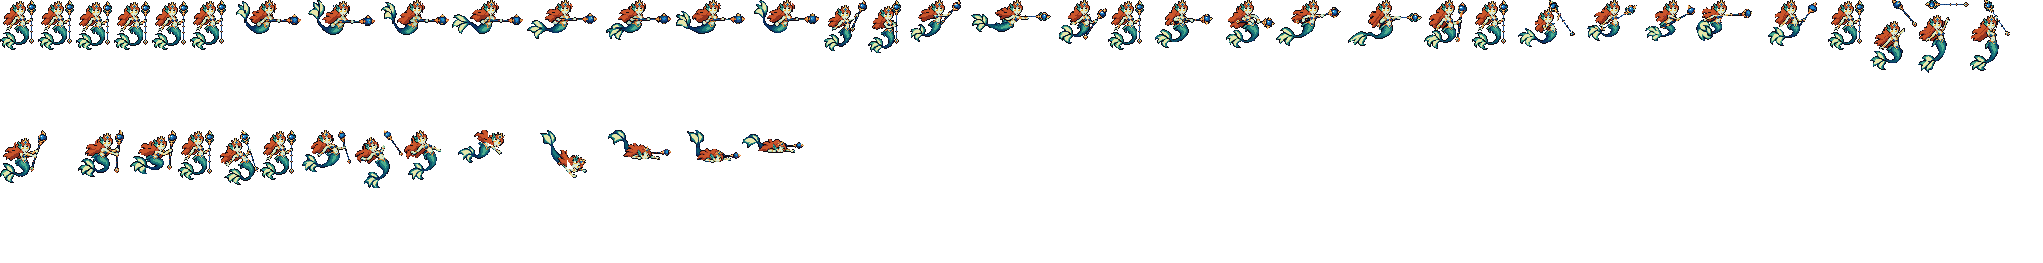
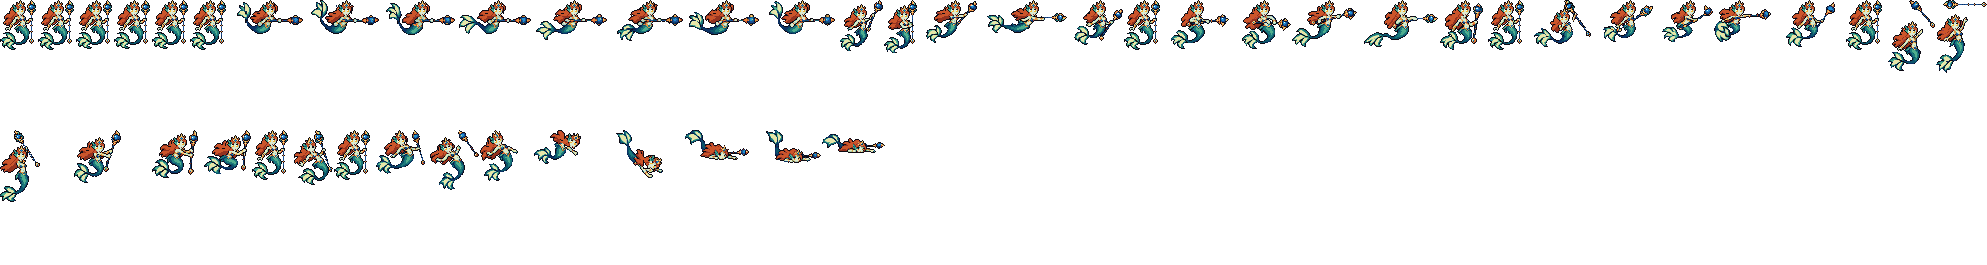
Nami: outline closed on every frame, the run's neck kept
The user: "黑边处理了吗" and "这个描边补法要记载到skill里面 后面英雄都要用的";
"缩小后脖子和身体有点怪 ... 一上一下的时候感觉身体要分离一样".

- skill strips.complete_outline: every clear pixel next to a light edge
  pixel (luminance >= 70) takes the outline colour, nothing drawn is
  repainted; one-pixel lines (her staff's shaft) stay open at their
  sides; under the soles row the edge pixel itself darkens. art-spec
  "Close the outline" (every hero) and "Keep the neck the same", QA
  checklist, SKILL.md step 4.
- import_native.py COMPLETE runs it on the finished frames (after SINK,
  BOB and NECK): Nami's silhouette edge 68-91% dark -> 94-100%, still 21
  colours; metrics outline WARN -> PASS.
- NECK: Codex drew her swimming body a row lower under the pasted head
  in run 1-4 than in 5-8 and the design; everything above the neck row
  moves down a row there, so the shoulders sit on the same row under
  the chin in all eight frames.
- previews and the showcase GIF re-rendered.

Changed region(s): [[0.0, 0.0, 1.0, 0.2738], [0.0, 0.4867, 0.468, 0.7605]]

diff --git a/tools/art/import_native.py b/tools/art/import_native.py
@@ -53,6 +53,14 @@ STEADY = ("idle", "run")
 # line) she sat high; the user: "整体下移 3 格、去掉浮空". Frames already on the ground stay (R's landing, her death).
 SINK = {"nami": 3}
 SOLES = 11
+# (hero, tag): (y, slots) like BOB, for a neck drawn too long under the pasted head: in those slots everything at or
+# above pivot row y moves down a row. Codex drew Nami's swimming body a row lower under the head in run 1-4 than
+# in 5-8 and the design, so her neck stretched and shrank as she swam (the user: "一上一下的时候感觉身体要分离一样").
+NECK = {("nami", "run"): (-21, [0, 1, 2, 3])}
+# heroes whose outline strips.complete_outline closes on the finished frames (the skill's art-spec "Close the
+# outline": every hero from Nami on; the user: "后面英雄都要用的"). Nothing goes under the soles row; a frame that
+# already reaches lower (lying down) keeps its own bottom.
+COMPLETE = {"nami"}
 ORDER = {("lux", "idle"): [0, 0, 0, 0, 0, 0],   # the step-2 idle is the design in all six (was 0 1 2 3 5 4)
          # League leans his upper body a square forward in idle 4-5 and back in 6, and every frame's head
          # is voted anew, so the face swung and changed shape as he breathed (the user). Frame 1 in every
@@ -363,9 +371,9 @@ def touch_up(hero, sheet):
 
 
 def breathe(hero, sheet):
-    """BOB: move the upper body of the listed slots down a row (after the retouch, which is drawn on the frame
-    before it moves)."""
-    for (h, tag), (y0, slots) in BOB.items():
+    """BOB and NECK: move the upper body of the listed slots down a row (after the retouch, which is drawn on the
+    frame before it moves)."""
+    for (h, tag), (y0, slots) in list(BOB.items()) + list(NECK.items()):
         if h != hero or tag not in sheet:
             continue
         for k in slots:
@@ -375,6 +383,29 @@ def breathe(hero, sheet):
             b[1:cut + 1] = a[0:cut]
             b[0] = 0
             sheet[tag][k] = (b, ms)
+
+
+def close_outline(hero, sheet):
+    """COMPLETE: strips.complete_outline on every frame, in idle frame 1's outline colour; (added, darkened)."""
+    if hero not in COMPLETE:
+        return 0, 0
+    first = sheet["idle"][0][0]
+    op = first[..., 3] > 0
+    p = np.pad(op, 1)
+    edge = op & ~(p[:-2, 1:-1] & p[2:, 1:-1] & p[1:-1, :-2] & p[1:-1, 2:])
+    dark = [tuple(int(v) for v in c) for c in first[edge & (G.lum(first[..., :3]) < 70)][:, :3]]   # the commonest
+    colour = max(set(dark), key=dark.count)
+    added = darkened = 0
+    for tag, frames in sheet.items():
+        for k, (a, ms) in enumerate(frames):
+            b = np.pad(a, ((1, 1), (1, 1), (0, 0)))              # room for an outline round the widest pixel
+            c = b.shape[0] // 2
+            low = int(np.nonzero(b[..., 3].any(1))[0].max())
+            b, n, d = G.complete_outline(b, color=colour, feet=max(c + SOLES, low))
+            frames[k] = (G.centre_frame(b, -(b.shape[1] // 2), -c), ms)
+            added += n
+            darkened += d
+    return added, darkened
 
 
 def flatness(frames):
@@ -420,6 +451,9 @@ def main():
         if touched:
             print(f"{hero}_retouch.json: {touched} pixels retouched")
         breathe(hero, sheet)
+        added, darkened = close_outline(hero, sheet)
+        if added or darkened:
+            print(f"{hero}: outline closed with {added} pixels added, {darkened} darkened on the feet line")
         w, h = G.write_sheet(os.path.join(MOD, "champions", f"league_{hero}"), sheet)
         frames = [a for fr in sheet.values() for a, _ in fr]
         colours = len(np.unique(np.concatenate([a[a[..., 3] > 0][:, :3] for a in frames]), axis=0))

diff --git a/.claude/skills/tfm2-hero-mod/scripts/strips.py b/.claude/skills/tfm2-hero-mod/scripts/strips.py
@@ -15,6 +15,10 @@ TFM2-League-Heroes repo); see references/art-spec.md "Generated art". Needs nump
   Palette       one shared palette per sprite (median cut), nearest-colour mapping
   median_cut    median-cut colours of a pixel list (build a palette per colour class)
   outline       1 px near-black silhouette outline (glowing pixels, and a `keep` mask, are left alone)
+  complete_outline
+                close the outline of game-size art where the drawing left it open: added outside,
+                nothing repainted, one-pixel lines open at their sides, nothing under the feet
+                (every hero's finished frames; art-spec "Close the outline")
   centre_frame  trim to an odd size centred on the pivot (the exported-sheet convention)
   write_sheet   pack frames into name#sheet.png + name#anim.fanim
 """
@@ -329,6 +333,44 @@ def outline(f, color=OUTLINE, glow=205, keep=None):
         edge &= ~keep
     out[edge, :3] = color
     return out
+
+
+def complete_outline(f, color=None, dark=70, feet=None, keep=None):
+    """Close the outline of game-size art where the drawing left it open: every clear pixel 4-next to an
+    opaque pixel that is not dark (luminance >= `dark`) becomes `color` (default: the commonest dark colour on
+    the silhouette's edge). Nothing drawn is repainted, except under the feet: a clear pixel below row `feet`
+    stays clear and the light pixel above it takes the colour instead. A one-pixel line seen across (a staff,
+    a bow, a strand of hair: base draws them without an outline) is left open at its sides; its ends get one.
+    `keep` pixels never change. Returns (picture, pixels added, pixels darkened)."""
+    out = f.copy()
+    op = f[..., 3] > 0
+    light = op & (lum(f[..., :3]) >= dark)
+    H, W = op.shape
+    keep = np.zeros_like(op) if keep is None else keep
+    if color is None:
+        p = np.pad(op, 1)
+        edge = op & ~(p[:-2, 1:-1] & p[2:, 1:-1] & p[1:-1, :-2] & p[1:-1, 2:])
+        dk = [tuple(int(v) for v in c) for c in f[edge & ~light][:, :3]]
+        color = max(set(dk), key=dk.count) if dk else OUTLINE
+    rows = np.arange(H)[:, None] + np.zeros((1, W), int)
+    pl, po = np.pad(light & ~keep, 2), np.pad(op, 2)
+    add = np.zeros_like(op)
+    dark_it = np.zeros_like(op)
+    for dy, dx in ((1, 0), (-1, 0), (0, 1), (0, -1)):
+        q = pl[2 + dy:2 + dy + H, 2 + dx:2 + dx + W]                      # the light pixel next to (y, x)
+        beyond = po[2 + 2 * dy:2 + 2 * dy + H, 2 + 2 * dx:2 + 2 * dx + W]   # the pixel past it
+        cand = ~op & ~keep & q & beyond
+        if feet is not None:
+            low = cand & (rows > feet)
+            cand &= rows <= feet
+            ys, xs = np.nonzero(low)
+            dark_it[ys + dy, xs + dx] = True
+        add |= cand
+    out[add, :3] = color
+    out[add, 3] = 255
+    dark_it &= ~add & light & ~keep
+    out[dark_it, :3] = color
+    return out, int(add.sum()), int(dark_it.sum())
 
 
 def drop_lonely(f):

diff --git a/README.md b/README.md
@@ -61,7 +61,7 @@
 ![阿卡丽演示：跑进场，Q 寒影的苦无扇打中德莱厄斯，他脚下亮起刺客印记圆环；两倍射程甩出镰刀的强化普攻，上前再砍两刀；E 隼舞后翻，落地时霞阵在落点放出烟雾、她隐身 2 秒，掷出的手里剑打中他、头顶亮起标记，0.5 秒后她隐着身冲回去斩一刀，印记又亮，再一记强化普攻；R 表里杀缭乱第一段从他身上穿过去，转身补两刀，2.5 秒后第二段穿回来斩杀](docs/preview/league_akali_showcase.gif?v=0930r40)
 
 ![薇恩演示：跑进场，腕弩的弩箭在德莱厄斯胸口套上圣银弩箭的第一个环；Q 闪避突袭：他在射程里，往后小跳，原地留下一团夜紫色的烟，强化箭套上第二个环，第三箭三环收拢爆开；E 恶魔审判：重箭把他击退，落地撞出尘土、眩晕 1 秒；R 终极时刻：身后亮起四角星光芒、蝙蝠飞散，脚下的四角星地纹和银光点跟着她 8 秒，弩箭再次三环爆开打死德莱厄斯，终极时刻刷新（猩红光环）；盖伦走上来，她往后翻滚隐身 1 秒，强化箭套环](docs/preview/league_vayne_showcase.gif?v=0930vb)
-![娜美演示：游进场，手杖宝珠射出两颗水弹打德莱厄斯；W 冲击之潮的水流打中德莱厄斯，弹到身后的卢锡安身上给他回血、套上唤潮之佑的水环（4 秒）和脚下踏浪之行的水涡，再弹去打走来的盖伦；Q 碧波之牢的水泡抛过去，地上先亮落点圈，落地炸开，德莱厄斯和盖伦被困进水泡浮起 1.25 秒；两人扑上来，R 怒涛之啸：娜美把手杖插在地上，月牙形的巨浪卷过两人把他们击飞](docs/preview/league_nami_showcase.gif?v=0930n3)
+![娜美演示：游进场，手杖宝珠射出两颗水弹打德莱厄斯；W 冲击之潮的水流打中德莱厄斯，弹到身后的卢锡安身上给他回血、套上唤潮之佑的水环（4 秒）和脚下踏浪之行的水涡，再弹去打走来的盖伦；Q 碧波之牢的水泡抛过去，地上先亮落点圈，落地炸开，德莱厄斯和盖伦被困进水泡浮起 1.25 秒；两人扑上来，R 怒涛之啸：娜美把手杖插在地上，月牙形的巨浪卷过两人把他们击飞](docs/preview/league_nami_showcase.gif?v=0930n4)
 
 ## 英雄：盖伦
 
@@ -1211,9 +1211,10 @@ python tools/art/preview_nami.py
 - 动作参考（`poses.json`）：镜头镜像、yaw 45、pitch 25，头 1.4、头发 0.6，高度 47，浮空 3 px，96×96 的格子。英雄联盟的娜美没有腿，`native_pose.py` 新加的 `"legs"` 选项用尾巴（`Tail1` 链）量脚底；`"flat"` 的帧伸出渲染图下边时（插在地上的法杖、死亡时脸朝下）现在会重新量一次。移动照她基础移速下播的直立游（`run_base` 同时播 `Nami_run_C` 和 `Nami_run_L`），取 `Nami_run_L` 的前 1 秒：尾巴摆一下，8 帧 × 125 ms 首尾相接；普攻 `Nami_attack1`，W `Nami_spell2`，Q `Nami_spell1`，R `Nami_spell4`（抛杖、跃起、落下插杖），死亡 `Nami_Death`（最后三帧沉到地上）。
 - 整理（`tidy_nami.py`）：Codex 按定稿画了 7 条动作（43 帧），全部过了检查（8×8 方块、定稿的 21 色、脚底线，每帧的头和定稿逐格一致，动作和英雄联盟原版的位置只差 1–2 格）。第一版有 13 帧法杖散开（宝珠脱开或没了、格子里飘着碎片），Codex 自己第二遍修好了大半，R 也改成低跳、第 5–6 帧把法杖插在地上；剩下的发回两轮返修，附上从定稿抠出的整根法杖让它逐格贴（竖的、朝右、朝左，斜着拿时整根旋转）。`tidy_nami.py` 把几次交付拼齐：移动、死亡、R 用第二遍，普攻、W、Q、受击用返修版，R 的第 2–3 帧用第二轮返修；普攻、W、Q、R、受击的最后一帧换成定稿站姿，回到待机时不跳；删掉不连在身上的 12 格以下的碎点（按八邻域算，斜着一格宽的法杖算连着）。
 - 导入：待机 6 帧用定稿，按琥珀色的眼睛定头的位置（`EYES`），移动时头稳在同一列。动作参考和 Codex 画的帧都浮空 3 px；用户在收藏界面（所有英雄的脚在同一条线上）看到她偏上，要「整体下移 3 格、去掉浮空」：`import_native.py` 的 `SINK` 把每帧往下移 3 格，但不越过脚底线（R 落地插杖的 2 帧、死亡躺地的 3 帧本来就贴地，不动），画面一个像素都不变。待机第 3–5 帧除了尾鳍尖和法杖底，整个人下沉一格再浮回来（`BOB` 的缝在脚底线上 3 行，那两行只差 4 格），和原来浮着上下动的样子一样。移动时尾巴拖在身后，身体比待机悬得高（最低点离地 14 px），头的高度和待机一样。头像截取点 (6, −47)，在金冠处（浮空时这个点比金冠低 3 px）。选人卡片设 `banpick_center` (0, −1)，见「选人卡片位置」一节。
+- 黑边和脖子（用户：「黑边处理了吗」「缩小后脖子和身体有点怪……一上一下的时候感觉身体要分离一样」）：Codex 画的定稿只有 85% 的外轮廓是黑边，动作帧 68–91%（发梢、手指、腰带、尾巴边）。`import_native.py` 的 `COMPLETE` 在切帧、下移之后用 skill 的 `strips.complete_outline`，在缺黑边的浅色边外补一格描边色，画好的像素一个不改；1 格宽的法杖杆两侧不补（原版的细兵器也不描边），脚底线以下不加（改为把边缘像素本身压成描边色）。每帧到 94–100%，颜色数不变，`metrics` 的描边检查从警告变成通过；以后每个英雄都这样补（用户：「后面英雄都要用的」，写进了 skill 的 art-spec）。移动的 8 帧里头是定稿原样贴的，Codex 画的身体在第 1–4 帧比第 5–8 帧和定稿低一格，游动时脖子忽长忽短：`NECK` 把第 1–4 帧下巴以上整体下移一格（和待机呼吸同一个办法），8 帧的肩膀都在下巴下同一行，头随身体一起上下。
 - 特效用 Codex 画的 13 张（62 帧）：每张交了生图原稿、它自己整理成 8×8 方块的版本和 1 倍图。1 倍图的格子是原格子的 1/8，大多数正好是想要的大小，照原样用（每个方块一个游戏像素，不重新取样）：水弹 25×10（和迦娜、莫甘娜的普攻弹差不多）、W 水流 26×14、治疗约 25×33、祝福约 28×36（这两张用 Codex 最后精修过的版本）、Q 水泡约 24、炸开 27×29、水牢约 35×45、R 击飞水柱约 30×46、被动水涡 32×12。要和别的英雄或技能范围对上的按多数色重新取样、只用 Codex 自己的颜色：普攻命中 18 px、W 打中 20 px（Codex 画的约 27），Q 落点圈 44 px 宽（半径 22000），R 巨浪 64 px 高（半径 32000，从生图原稿取样，Codex 的格子里只有 46 px 高），巨浪上下镜像成严格对称。锚点：飞行的水弹和水流在格子中线、亮白的水头上，命中量亮核，治疗、祝福、水牢在格子中间（人形空位的中心），落点圈在椭圆中心、放在脚底线上，炸开、击飞水柱和水涡量最低一行（放在脚底线上）。落点圈持续水泡飞行的 0.4 秒，水牢 1.25 秒，祝福和水涡是 buff 的循环画面（水涡画在人物下面）。
 - 出手时刻和动画对齐：普攻第 4 帧宝珠前刺（第 11 tick），W 第 3 帧甩出水流（第 8 tick），Q 第 4 帧甩出水泡（第 11 tick），R 第 5 帧插杖（第 17 tick）。
-- 结果：21 色，和右边像素同色的比例 33%（原版英雄 18%–46%）。待机每帧 918 个不透明像素，和迦娜（902）、卢锡安（983）相近。
+- 结果：21 色，和右边像素同色的比例 34%（原版英雄 18%–46%）。待机每帧 949 个不透明像素（补描边前 918），和迦娜（902）、卢锡安（983）相近。
 
 逐帧预览：[`docs/preview/league_nami_frames.png`](docs/preview/league_nami_frames.png)，特效：[`docs/preview/league_nami_effects.png`](docs/preview/league_nami_effects.png)。
 

diff --git a/.claude/skills/tfm2-hero-mod/references/art-spec.md b/.claude/skills/tfm2-hero-mod/references/art-spec.md
@@ -542,12 +542,32 @@ The route used for Garen in TFM2-League-Heroes: prompts in `assets/source/<hero>
   ult (her reforged blade) was drawn over the finished strips with the body pixel for pixel kept:
   `tools/art/tidy_riven.py --blade` diffs each against the strip it came from (only empty squares filled and the
   blade's own rune green lit, nothing removed, nothing round the eyes, nothing under the feet line).
+- **Close the outline on every frame (every hero; the user's rule).** A game-size drawing from an image model leaves
+  the outline open where a light colour meets the air: league_nami's design had 85% of its silhouette edge near-black,
+  her action frames 68-91% (hair ends, fingers, the belt, the tail's edge); the user asked "黑边处理了吗" and for the
+  fix to go to every hero after her ("后面英雄都要用的"). `strips.complete_outline(frame, color, feet=<soles row>)`:
+  every clear pixel next to a light pixel (luminance >= 70) becomes the outline colour (the commonest dark colour on
+  the edge); nothing drawn is repainted. A one-pixel line seen across (her staff's shaft, a bow, a strand) stays open
+  at its sides, as base draws thin weapons, and gets its ends closed; under the soles row nothing is added, the light
+  edge pixel there takes the colour itself. Run it on the finished frames, after any sink, breathing seam or neck fix
+  (`tools/art/import_native.py` `COMPLETE`; league_riven and league_akali did the same in their tidy scripts): Nami's
+  frames went to 94-100%, the colour count unchanged, `metrics` from WARN to PASS.
+- **Keep the neck the same in every frame.** With the design's head pasted into redrawn frames, align a loop's frames
+  on the head and check that the shoulders sit the same number of rows under the chin. Codex drew league_nami's
+  swimming body a row lower under the head in four of the eight run frames: her neck stretched and shrank as she bobbed
+  and at game size the head seemed to come off ("一上一下的时候感觉身体要分离一样"; league_riven's "脖子拉伸" before
+  her). Move everything above a neck row down a row in the long-necked frames (`import_native.py` `NECK`, the breathing
+  seam's mechanism) rather than the head alone, which would leave its old place empty.
 - **Review before shipping.** Per-strip sheets with the idle silhouette overlaid, `metrics`,
   a side-by-side with base champions at 1x and 3x, and a scripted showcase against a dummy.
 
 ## QA checklist
 
 - [ ] `metrics` passes: height, outline, 0 semi-alpha, colour count
+- [ ] outline closed on every frame with `strips.complete_outline` (only one-pixel lines left open)
+- [ ] a pasted head: the shoulders the same number of rows under the chin in every frame of a loop
+- [ ] stands on the soles row unless a float is wanted: the collection grid lines every hero's feet up and a
+      float reads as sitting high (league_nami's 3 px went: `import_native.py` `SINK`)
 - [ ] `idle`, `run`, plus every `action_name` and `CasterAnimation` name exists as a tag
       (`lint_mod.py` checks this against the data); `hit` and `dead` recommended
 - [ ] feet stay on the same row in all frames; hero stands level with base champions in-game

diff --git a/.claude/skills/tfm2-hero-mod/SKILL.md b/.claude/skills/tfm2-hero-mod/SKILL.md
@@ -60,7 +60,8 @@ empty tooltip). That is why the linter exists - run it after every edit.
    art"). From a picture of the hero, have the image model draw the sprite at game size (about
    36-38 squares crown to soles, 8x blocks) and read it back square for square with
    `scripts/regrid.py` - never ask for a bigger drawing to shrink, the details break up (art-spec
-   "A design drawn at game size"). Check with `python scripts/tfm2_ase.py metrics <sprite>` and preview with `render`.
+   "A design drawn at game size"). Close the outline on every finished frame with
+   `strips.complete_outline` (art-spec "Close the outline", every hero). Check with `python scripts/tfm2_ase.py metrics <sprite>` and preview with `render`.
    Then `python scripts/tfm2_ase.py face <sprite> --out face.png` and look at it: next to base
    champions at 1x, is the head about a third of the height and can you see the eyes? Put the
    `face` point it suggests into `style/champion_view` (portraits crop around it).
